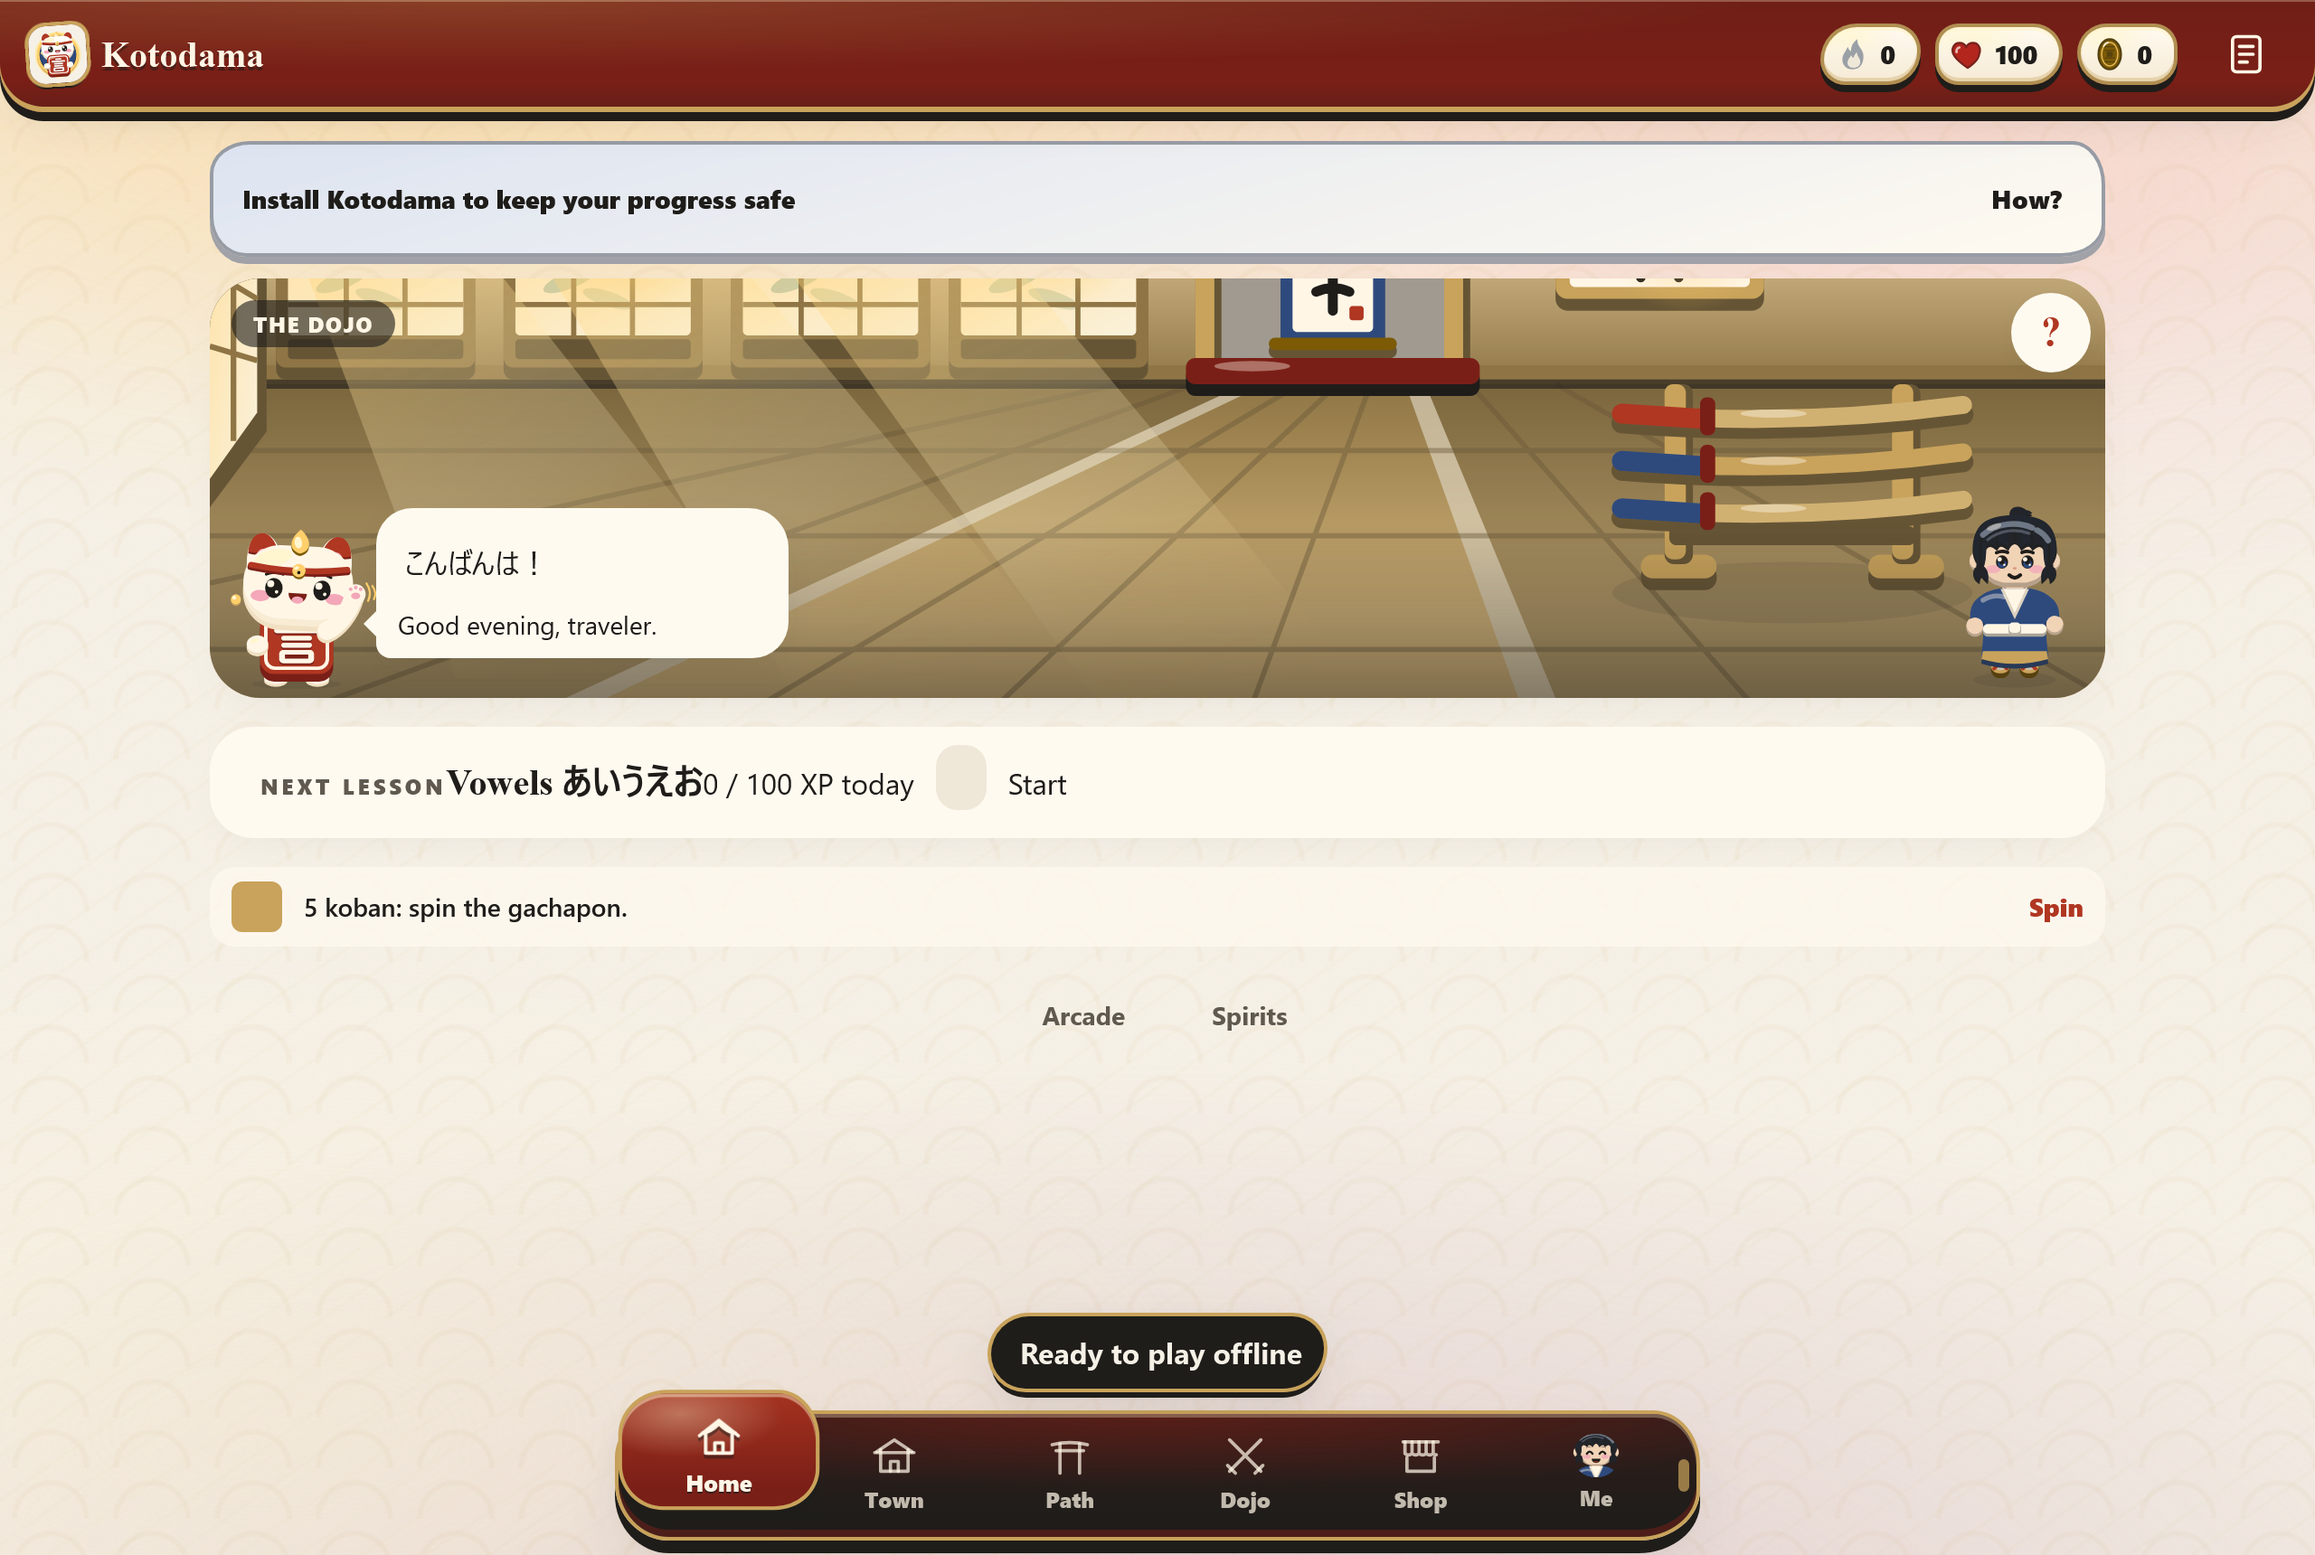
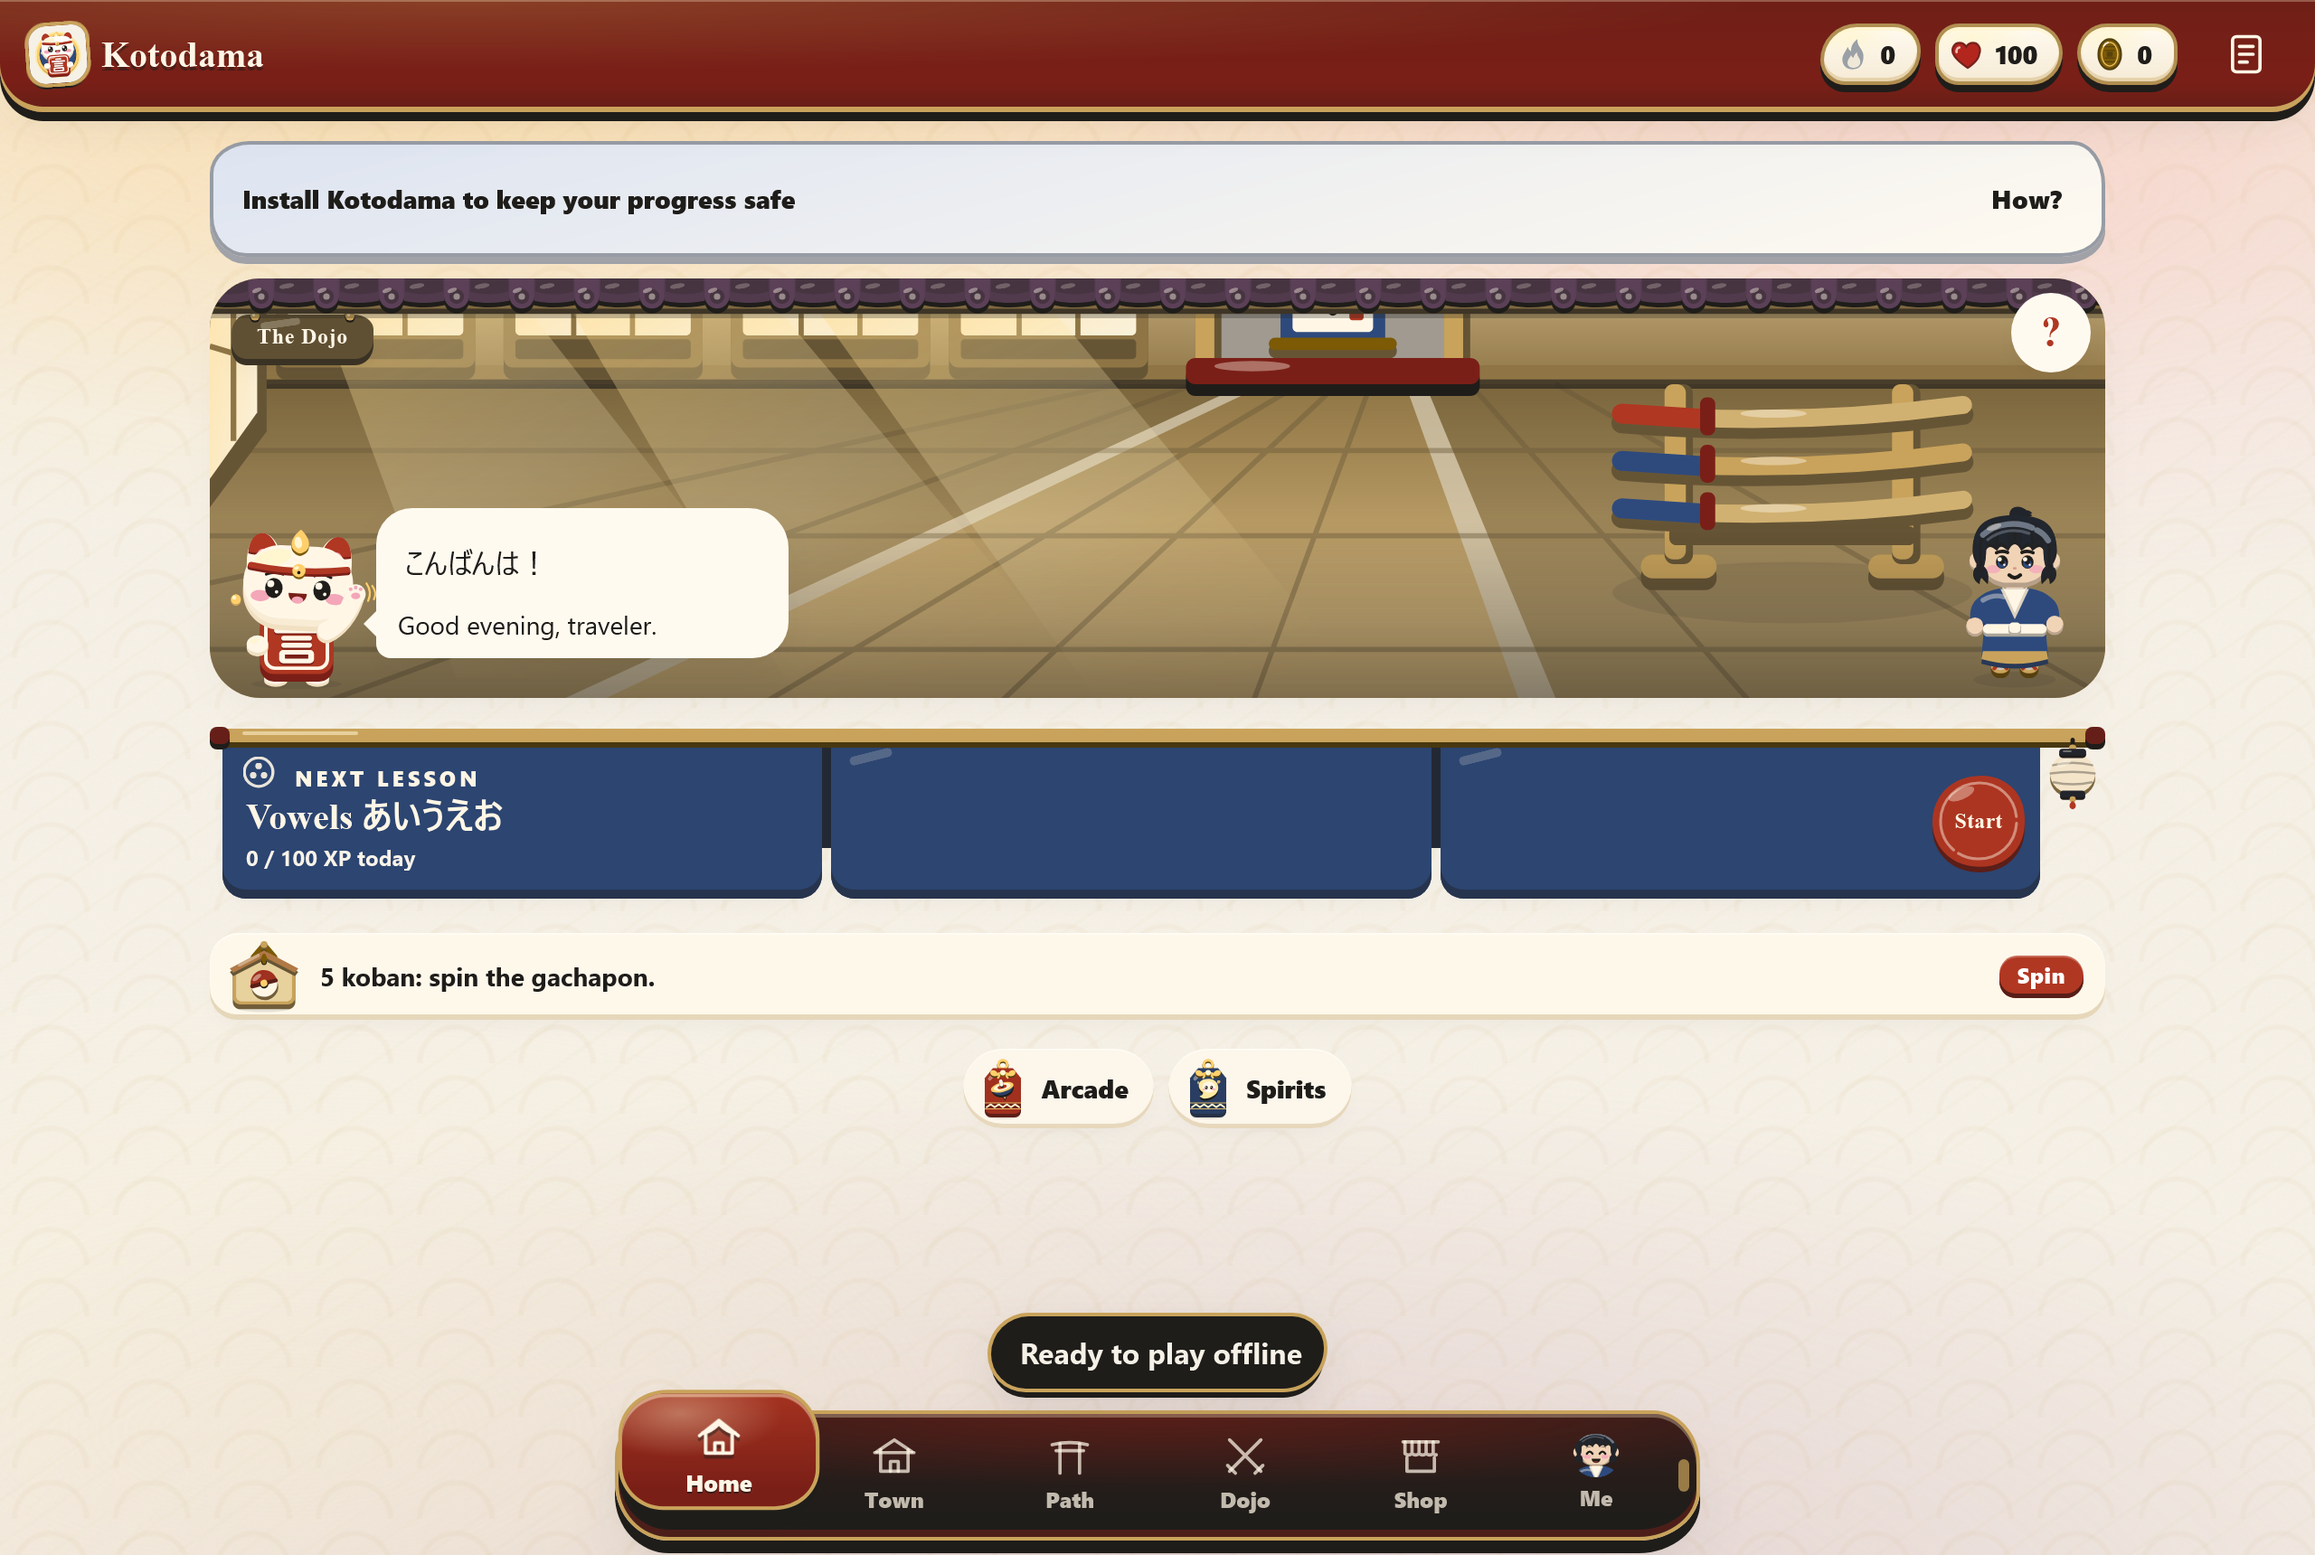
fix(home): two noren panels so no slit runs through the lesson title
By Alyssa's AI.

Changed region(s): [[0.0938, 0.4622, 0.9062, 0.7395], [0.0938, 0.1541, 0.9062, 0.2465]]

diff --git a/src/features/home/parts/GoalLantern.tsx b/src/features/home/parts/GoalLantern.tsx
@@ -18,9 +18,7 @@ export function GoalLantern({ pct }: { pct: number }) {
           rx="12.5"
           ry="11.2"
           fill={
-            full
-              ? 'var(--c-gold)'
-              : 'color-mix(in srgb, var(--c-panel-edge) 54%, var(--c-hud-bg))'
+            full ? 'var(--c-gold)' : 'color-mix(in srgb, var(--c-panel-edge) 54%, var(--c-hud-bg))'
           }
         />
         <ellipse

diff --git a/src/features/home/parts/noren.css b/src/features/home/parts/noren.css
@@ -498,3 +498,13 @@ span.goal-lantern.goal-lantern-full .goal-lantern-fill {
     transition: none !important;
   }
 }
+
+/* Layout (Alyssa's AI): two panels, a wide one carrying the words and a narrow one framing the
+   seal, so no slit ever runs through the lesson title. */
+.noren-curtain {
+  grid-template-columns: minmax(0, 1fr) 84px;
+}
+
+.noren-panel-2 {
+  display: none;
+}
